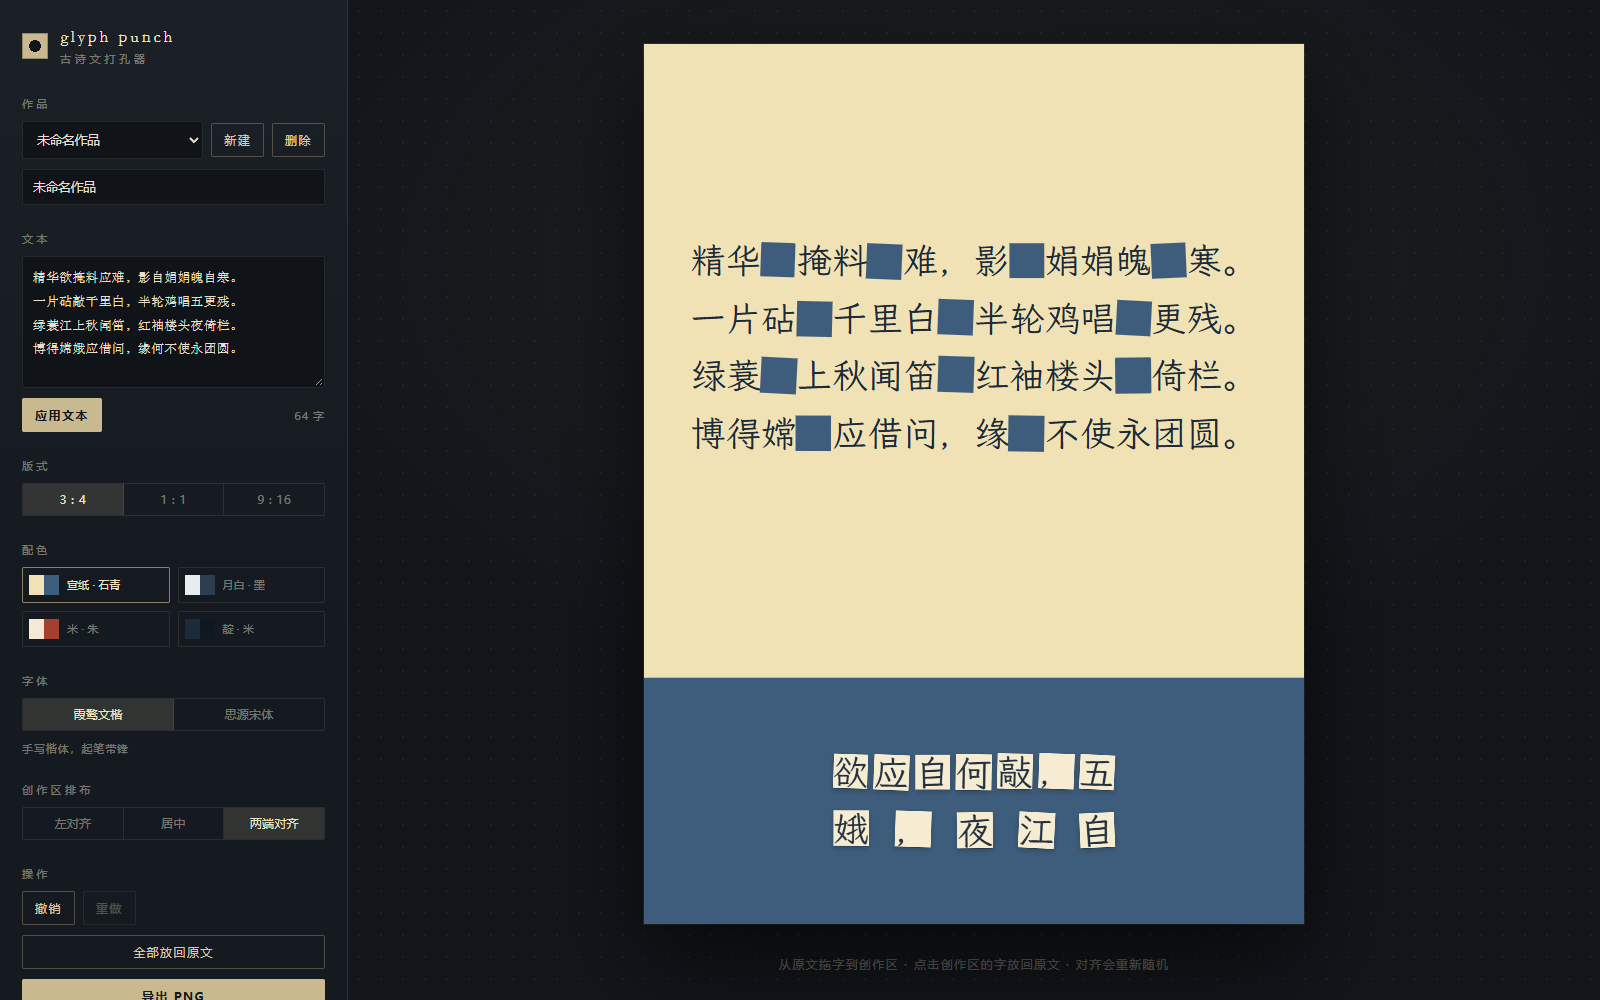
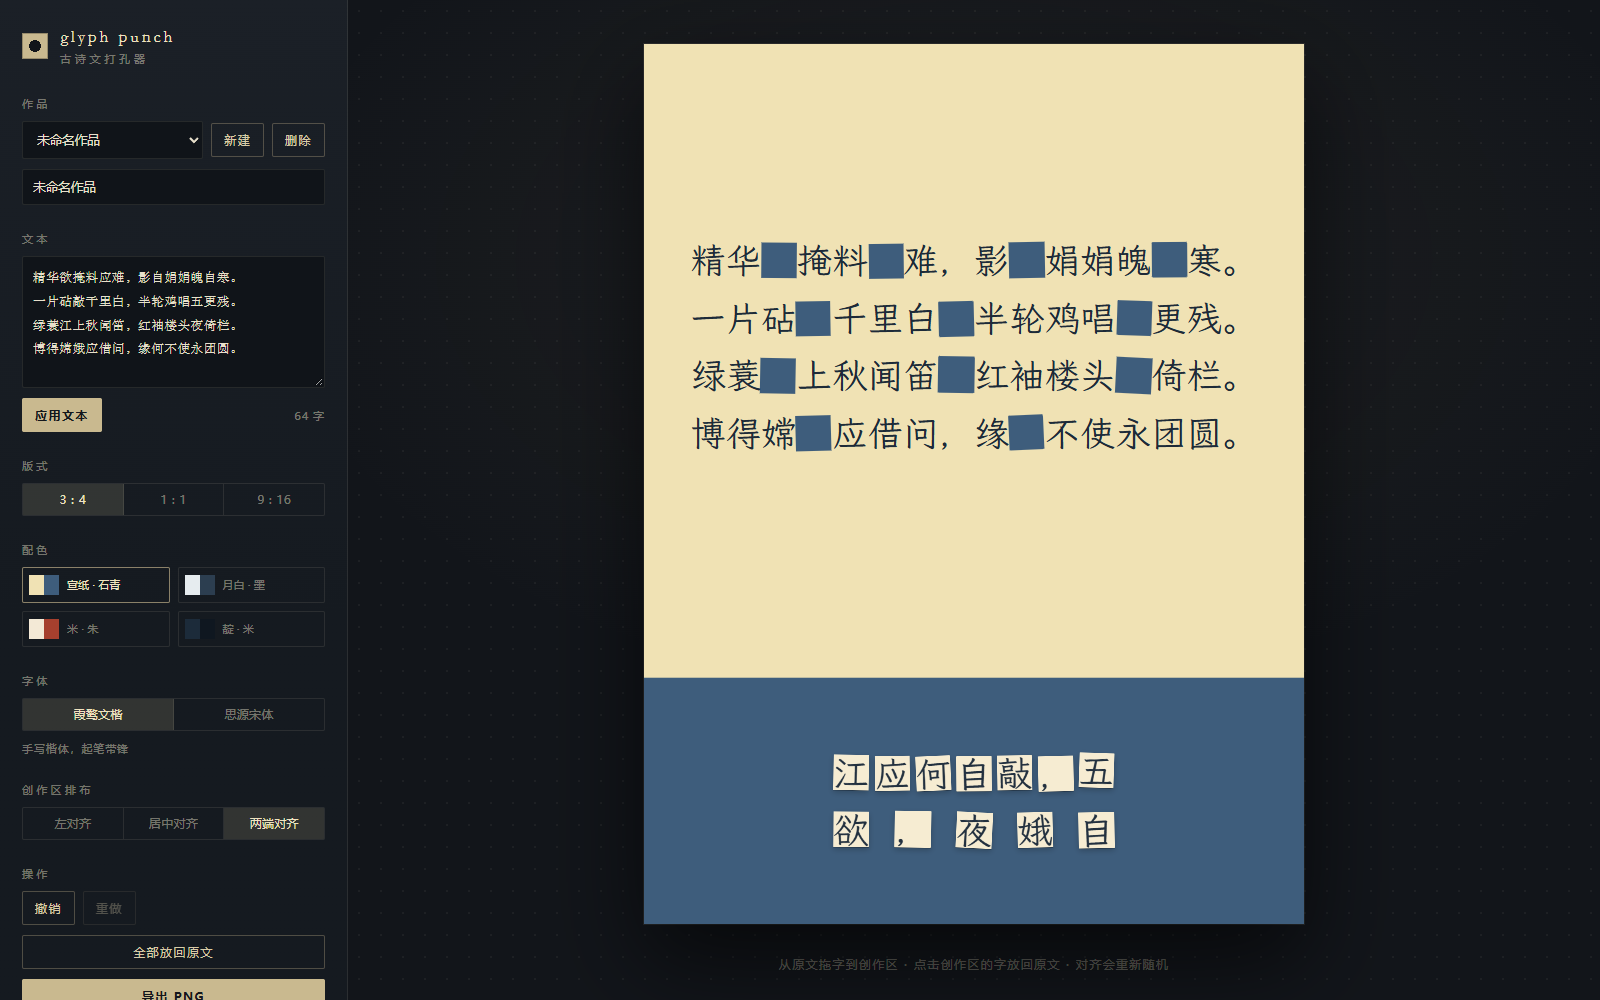
fix: 单字行两端对齐居中，文案统一 (v0.4.3)
- 两端对齐时只有一张纸片的行按块心居中，不再贴块左缘
- 三个排布按钮统一为四字：左对齐 / 居中对齐 / 两端对齐
- 更新 PRD 与 README

Changed region(s): [[0.5, 0.744, 0.6875, 0.868], [0.4688, 0.248, 0.5, 0.279], [0.0938, 0.806, 0.125, 0.837]]

diff --git a/src/layout.ts b/src/layout.ts
@@ -233,10 +233,12 @@ export function alignTiles(
     if (mode === 'center') {
       cursor = blockLeft + (measure - natural) / 2
     } else if (mode === 'justify') {
-      gap =
-        cells.length > 1
-          ? naturalGap + Math.max(0, measure - natural) / (cells.length - 1)
-          : 0
+      if (cells.length === 1) {
+        // 只有一个字时没有两端可撑，按块心居中。
+        cursor = blockLeft + (measure - widths[0]) / 2
+      } else {
+        gap = naturalGap + Math.max(0, measure - natural) / (cells.length - 1)
+      }
     }
 
     const rowY = Math.min(startY + rowIndex * rowStep, artH - size - 8)

diff --git a/src/types.ts b/src/types.ts
@@ -6,7 +6,7 @@ export type TileAlign = 'left' | 'center' | 'justify'
 
 export const TILE_ALIGNS: { id: TileAlign; label: string }[] = [
   { id: 'left', label: '左对齐' },
-  { id: 'center', label: '居中' },
+  { id: 'center', label: '居中对齐' },
   { id: 'justify', label: '两端对齐' },
 ]
 

diff --git a/docs/PRD.md b/docs/PRD.md
@@ -49,7 +49,7 @@
 | 5 | 文本来源 | 用户粘贴，保留所有换行 |
 | 6 | 视觉 | 双色撞色，预设 + 自定义；背景图后续 |
 | 7 | 创作区 | 自由摆位，「对齐」是显式按钮 |
-| 8 | 对齐语义 | 仅创作区，三档：左对齐 / 居中 / 两端对齐，点击即执行；先按 y 识别行，以最长行的自然宽度确定块宽并整块居中，三档只决定每行在块内贴左、居中或撑满 |
+| 8 | 对齐语义 | 仅创作区，三档：左对齐 / 居中对齐 / 两端对齐，点击即执行；先按 y 识别行，以最长行的自然宽度确定块宽并整块居中，三档只决定每行在块内贴左、居中或撑满；单字行在两端对齐下居中 |
 | 9 | 随机偏移 | 每次对齐重新随机，不持久化种子 |
 | 10 | 画板 | 3:4 / 1:1 / 9:16 预设，坐标按 1080 逻辑宽归一化 |
 | 11 | 原文排版 | 字号自动适配填满区域，固定左起自动排布；不提供对齐选项 |
@@ -116,7 +116,7 @@ interface Tile {
 - 每次取字生成一个新种子，重复取放同一个字会得到不同的角度与偏移；洞与纸片仍然共用这一次的结果。
 - 拖动纸片：自由移动，限制在画板内。
 - 拖进原文区松手：纸片回到它自己的洞。
-- 「创作区排布」：左对齐 / 居中 / 两端对齐三个按钮，点击即按当前行结构重排；块宽由最长行决定、整块始终居中，三档只改变行在块内的摆法。
+- 「创作区排布」：左对齐 / 居中对齐 / 两端对齐三个按钮，点击即按当前行结构重排；块宽由最长行决定、整块始终居中，三档只改变行在块内的摆法；单字行在两端对齐下按块心居中。
 - 撤销 / 重做：所有破坏性操作入栈。
 - 「全部放回原文」：清空创作区、取消全部打孔，所有字回到原位；纸片逐张错峰飞回原洞（每张 300ms，间隔 18ms），全部落地后才补回文字。这是一次可撤销的操作，与「重做」无关。
 - 导出：当前画板 1:1 绘制到 Canvas 后下载。

diff --git a/README.md b/README.md
@@ -20,8 +20,8 @@
 - 点击创作区的纸片即可弹回原文，也可以拖回原文区回填
 - 动效只回应动作：纸片落下有沉淀回弹、回填时沿直线飞回原洞、对齐与换比例时滑动归位、悬停微抬
 - 尊重 `prefers-reduced-motion`，系统开启减弱动态时全部动效关闭
-- 创作区三档排布：左对齐 / 居中 / 两端对齐，点一下立即生效
-- 先按最长行确定整块宽度并居中；三档只控制每行在块内贴左、居中还是撑满
+- 创作区三档排布：左对齐 / 居中对齐 / 两端对齐，点一下立即生效
+- 先按最长行确定整块宽度并居中；三档只控制每行在块内贴左、居中还是撑满，单字行在两端对齐下居中
 - 「全部放回原文」一键清空创作区：纸片逐张错峰飞回各自的洞，全部归位后字才补回纸上（可撤销）
 - 画板 3:4 / 1:1 / 9:16，切换时纸片按比例重映射
 - 四套双色主题；原文自动排布，不提供对齐选项
